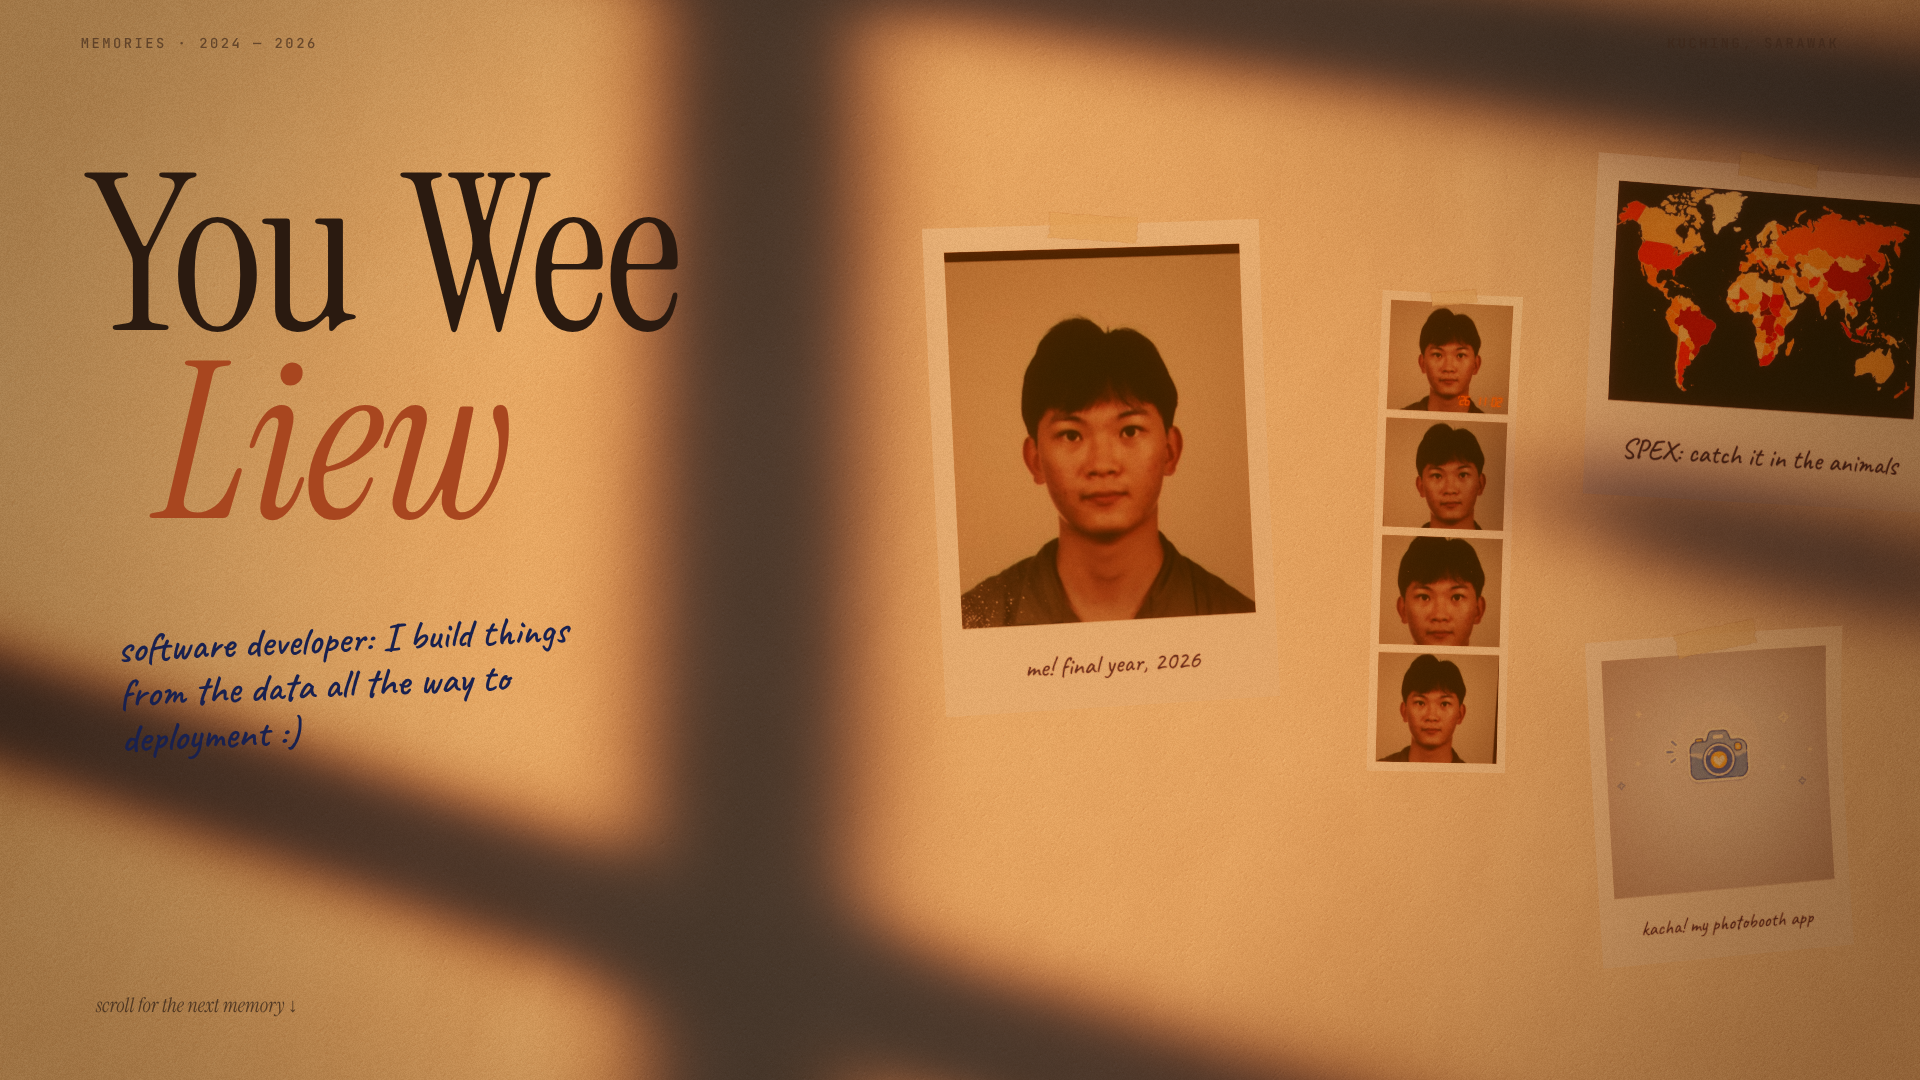
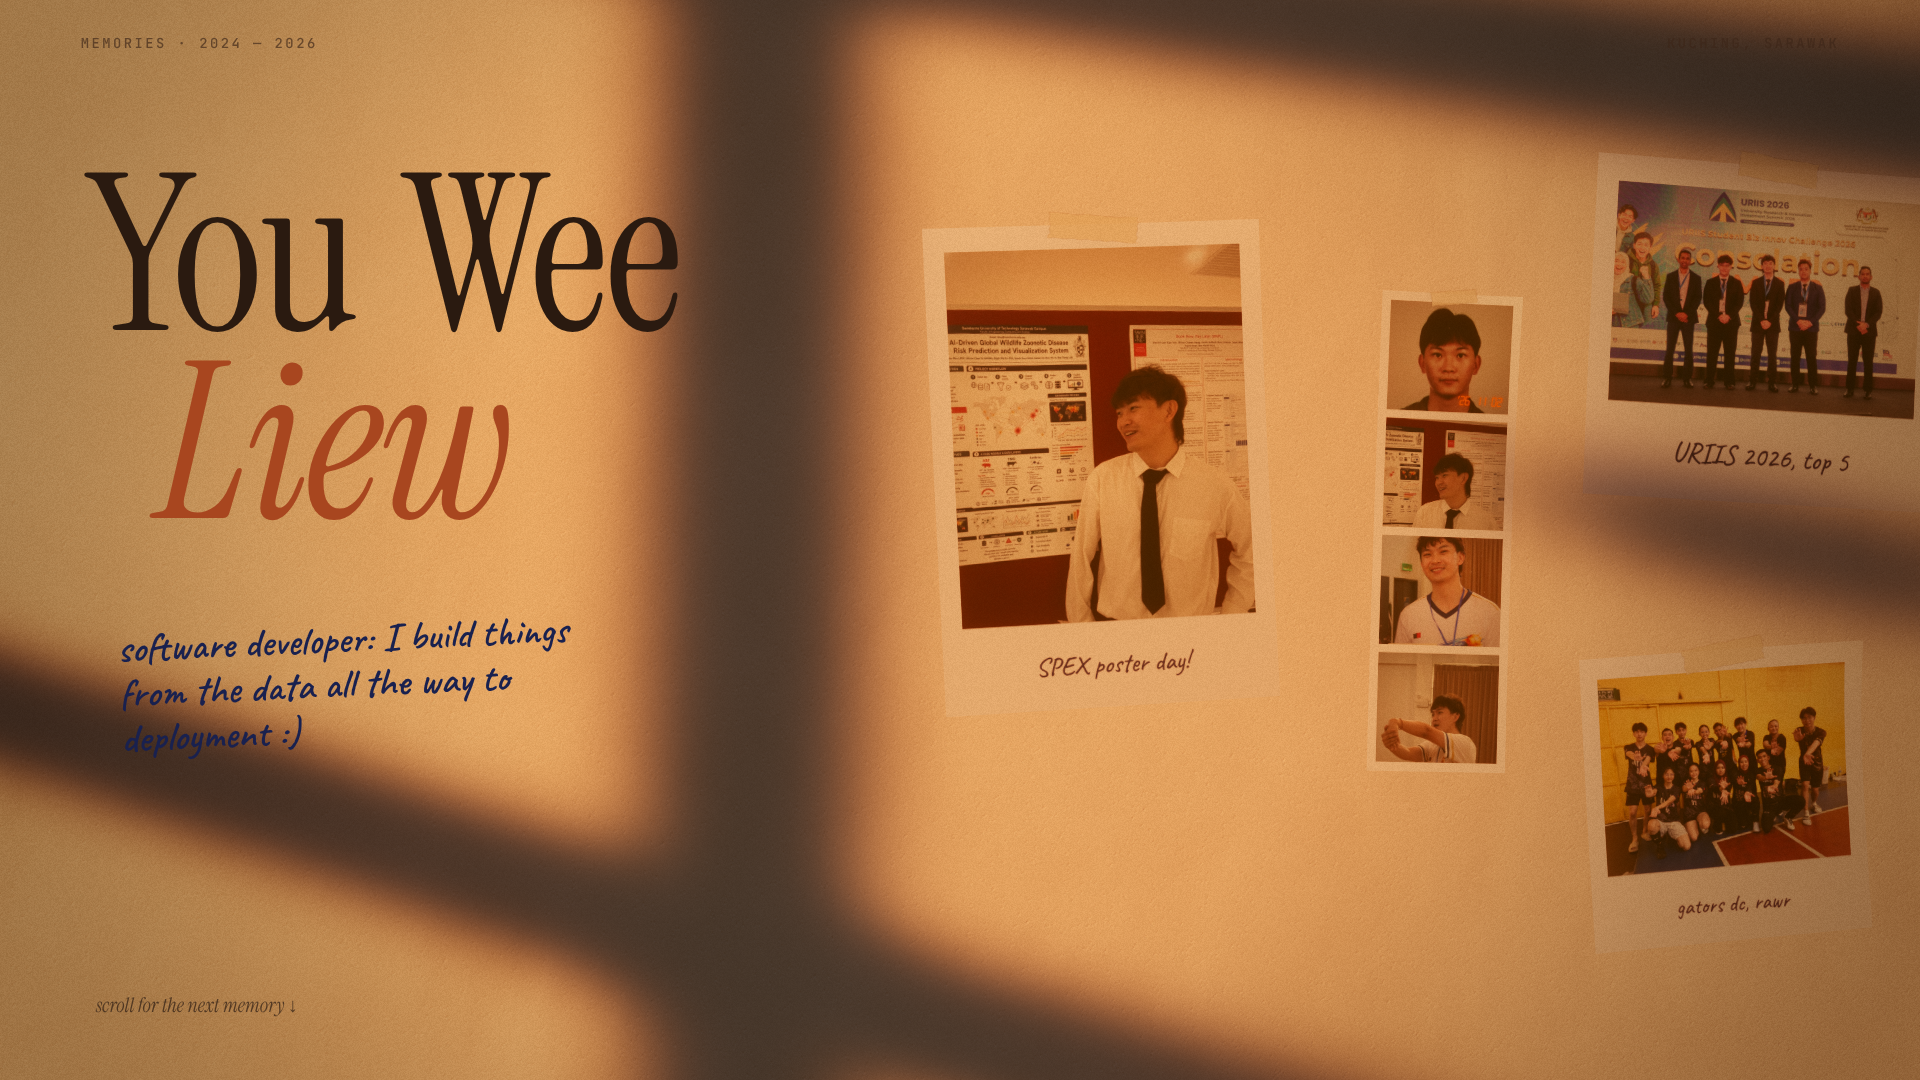
Put the user's own memories into the style frames
Adds eight photos (resized, metadata stripped, school-hall shots cropped
to keep students out) and lets a photobooth strip take a different image
per frame. Cropping now clamps so a photo always covers its frame.

Claude-Session: https://claude.ai/code/session_016nJieuj3hz1PRLzcMUTyK7

diff --git a/workbench/style-frames/frames.js b/workbench/style-frames/frames.js
@@ -37,7 +37,23 @@ const images = Object.fromEntries(await Promise.all(Object.entries({
   kacha: 'projects/kacha-camera.jpg',
   herbarium: 'projects/herbarium.jpg',
   aws: 'projects/aws-architecture.jpg',
+  poster: 'memories/spex-poster.jpg',
+  certificate: 'memories/certificate.jpg',
+  coaching: 'memories/coaching.jpg',
+  gators: 'memories/gators.jpg',
+  stage: 'memories/uriis-stage.jpg',
+  game: 'memories/game.jpg',
+  team: 'memories/outreach-team.jpg',
 }).map(async ([key, file]) => [key, await loadImage(IMG + file)])));
+
+// Four sittings in one strip: the ID photo, SPEX poster day, the outreach
+// certificate, and coaching the warm-up.
+const memoryStrip = () => [
+  { image: images.portrait, zoom: 1.0, focusX: 0.5, focusY: 0.44 },
+  { image: images.poster, zoom: 1.75, focusX: 0.75, focusY: 0.4 },
+  { image: images.certificate, zoom: 1.0, focusX: 0.5, focusY: 0.3 },
+  { image: images.coaching, zoom: 1.0, focusX: 0.5, focusY: 0.31 },
+];
 
 const hdr = (r, g, b, scale) => new THREE.Color(r, g, b).multiplyScalar(scale);
 
@@ -123,10 +139,10 @@ const darkroom = () => {
   const wire = new THREE.CatmullRomCurve3(Array.from({ length: 21 }, (_, k) => along(k / 20)));
   back.add(new THREE.Mesh(new THREE.TubeGeometry(wire, 120, 0.014, 6), new THREE.MeshStandardMaterial({ color: 0x9d968b, roughness: 0.5 })));
   [
-    { image: images.herbarium, t: 0.42, w: 1.9, ratio: 0.6, rot: -0.04 },
-    { image: images.spex, t: 0.6, w: 1.7, ratio: 0.72, rot: 0.035 },
-    { image: images.kacha, t: 0.76, w: 1.35, ratio: 1.0, rot: 0.05 },
-    { image: images.aws, t: 0.9, w: 1.6, ratio: 0.82, rot: -0.03 },
+    { image: images.gators, t: 0.42, w: 1.9, ratio: 0.72, rot: -0.04 },
+    { image: images.stage, t: 0.6, w: 1.8, ratio: 0.64, rot: 0.035 },
+    { image: images.game, t: 0.76, w: 1.6, ratio: 0.7, rot: 0.05 },
+    { image: images.team, t: 0.9, w: 1.5, ratio: 0.9, rot: -0.03 },
   ].forEach((print, k) => {
     const mesh = printMesh(instantPhoto(print.image, { width: 640, ratio: print.ratio, look: 'mono', seed: 30 + k }), print.w, {
       gloss: 0.7, roughness: 0.45, curl: 0.3, cup: 0.12,
@@ -158,7 +174,7 @@ const darkroom = () => {
     { position: [-8, -2, 4], size: [3, 6], color: hdr(1, 0.12, 0.05, 2.2) },
   ]);
   front.environmentIntensity = 0.55;
-  const face = photoStrip(images.portrait, {
+  const face = photoStrip(memoryStrip(), {
     look: 'mono', develop: 0.5, stamp: "'26 11 02", label: 'YOU WEE LIEW  ·  KUCHING  ·  02 11 26',
   });
   const strip = printMesh(face, 1.46, { gloss: 1, roughness: 0.32, curl: 0.16, segments: [8, 64] });
@@ -276,15 +292,15 @@ const goldenHour = () => {
 
   const ink = '#1f2c66';
   const cards = [
-    { image: images.portrait, w: 2.3, x: 0.35, y: 0.5, rot: 0.05, ratio: 1.24, caption: 'me! final year, 2026', pose: { zoom: 1.05, focusY: 0.43 } },
+    { image: images.poster, w: 2.3, x: 0.35, y: 0.5, rot: 0.05, ratio: 1.24, caption: 'SPEX poster day!', pose: { zoom: 1.35, focusX: 0.66, focusY: 0.45 } },
     { strip: true, w: 1.0, x: 2.75, y: 0.05, rot: -0.035 },
-    { image: images.spex, w: 2.65, x: 5.15, y: 1.45, rot: -0.05, ratio: 0.66, caption: 'SPEX: catch it in the animals' },
-    { image: images.kacha, w: 1.9, x: 4.8, y: -1.8, rot: 0.06, ratio: 1.0, caption: 'kacha! my photobooth app' },
-    { image: images.herbarium, w: 2.5, x: 7.75, y: -0.3, rot: 0.035, ratio: 0.6, caption: 'herbarium project' },
+    { image: images.stage, w: 2.65, x: 5.15, y: 1.45, rot: -0.05, ratio: 0.66, caption: 'URIIS 2026, top 5' },
+    { image: images.gators, w: 2.1, x: 4.85, y: -1.8, rot: 0.06, ratio: 0.75, caption: 'gators dc, rawr' },
+    { image: images.game, w: 2.5, x: 7.75, y: -0.3, rot: 0.035, ratio: 0.66, caption: 'game day' },
   ];
   cards.forEach((card, k) => {
     const face = card.strip
-      ? photoStrip(images.portrait, { look: 'color', stamp: "'26 11 02", seed: 8 })
+      ? photoStrip(memoryStrip(), { look: 'color', stamp: "'26 11 02", seed: 8 })
       : instantPhoto(card.image, { width: 860, ratio: card.ratio, caption: card.caption, font: '600 66px Caveat', ink, pose: card.pose, seed: 40 + k });
     const mesh = printMesh(face, card.w, { gloss: 0.35, roughness: 0.55, curl: 0.12, lift: k % 2 ? 0.5 : 0.2 });
     pin(wall, mesh, { x: card.x, y: card.y, z: 0.1, rotate: card.rot });
@@ -365,9 +381,11 @@ const cutAndPaste = () => {
   const blue = { color: '#0078bf', channel: (r, g, b) => 1 - (0.62 * r + 0.3 * g + 0.08 * b), angle: 1.31, offset: [3, 2] };
   const flat = { physical: false, roughness: 0.92, alphaTest: 0.5 };
 
-  const portrait = printMesh(cutOut(risograph(images.portrait, 760, 940, { cell: 7, inks: [pink, blue], focusY: 0.45 }), 760, 940), 2.55, { ...flat, lift: 0.5 });
+  const portrait = printMesh(cutOut(risograph(images.poster, 760, 940, { cell: 7, inks: [pink, blue], zoom: 1.3, focusX: 0.7, focusY: 0.46 }), 760, 940), 2.55, { ...flat, lift: 0.5 });
   pin(page, portrait, { x: 1.75, y: 0.35, z: 0.06, rotate: -0.075 });
-  const strip = printMesh(photoStrip(images.portrait, { look: 'riso', label: 'PHOTOBOOTH · 4 POSES', labelFont: '700 26px "JetBrains Mono"' }), 1.05, { ...flat, curl: 0.15 });
+  const stripFrames = memoryStrip();
+  stripFrames[1] = { image: images.game, zoom: 1.2, focusX: 0.5, focusY: 0.62 };
+  const strip = printMesh(photoStrip(stripFrames, { look: 'riso', label: 'PHOTOBOOTH · 4 POSES', labelFont: '700 26px "JetBrains Mono"' }), 1.05, { ...flat, curl: 0.15 });
   pin(page, strip, { x: 4.35, y: -0.35, z: 0.1, rotate: 0.11 });
   const ticket = printMesh(ticketStub({
     lines: [
@@ -377,7 +395,7 @@ const cutAndPaste = () => {
     ],
   }), 3.1, { ...flat, alphaTest: 0.3 });
   pin(page, ticket, { x: 1.35, y: -2.55, z: 0.05, rotate: 0.04 });
-  const spex = printMesh(cutOut(risograph(images.spex, 900, 640, { cell: 6, inks: [pink, blue] }), 900, 640, { seed: 9 }), 2.15, { ...flat, lift: 0.4 });
+  const spex = printMesh(cutOut(risograph(images.gators, 900, 640, { cell: 6, inks: [pink, blue] }), 900, 640, { seed: 9 }), 2.15, { ...flat, lift: 0.4 });
   pin(page, spex, { x: 5.25, y: 2.25, z: 0.04, rotate: -0.07 });
 
   [

diff --git a/site/js/lib/prints.js b/site/js/lib/prints.js
@@ -32,23 +32,26 @@ export const POSES = [
   { zoom: 1.05, focusX: 0.54, focusY: 0.45, rotate: 0.04 },
 ];
 
-// A four-frame photobooth strip. `look` is mono, color or riso.
-export const photoStrip = (image, {
+// A photobooth strip. `source` is one image (shot four times with POSES) or a
+// list of frames, each { image, zoom, focusX, focusY, rotate }.
+// `look` is mono, color or riso.
+export const photoStrip = (source, {
   look = 'mono', width = 640, poses = POSES, develop = 1, stamp = null, label = '', labelFont = '500 17px "JetBrains Mono"', seed = 4,
   risoInk = '#0078bf',
 } = {}) => {
+  const frames = Array.isArray(source) ? source : poses.map((pose) => ({ image: source, ...pose }));
   const margin = Math.round(width * 0.0625);
   const gap = Math.round(width * 0.053);
   const fw = width - margin * 2;
   const fh = Math.round(fw * 0.86);
   const footer = label ? Math.round(width * 0.17) : margin;
-  const height = margin + poses.length * fh + (poses.length - 1) * gap + footer;
+  const height = margin + frames.length * fh + (frames.length - 1) * gap + footer;
   const canvas = makeCanvas(width, height);
   const ctx = canvas.getContext('2d', { willReadFrequently: true });
   ctx.fillStyle = PAPER[look];
   ctx.fillRect(0, 0, width, height);
 
-  poses.forEach((pose, index) => {
+  frames.forEach(({ image, ...pose }, index) => {
     const x = margin;
     const y = margin + index * (fh + gap);
     if (look === 'riso') {
@@ -70,7 +73,7 @@ export const photoStrip = (image, {
     frameVignette(ctx, x, y, fw, fh, look === 'mono' ? 0.42 : 0.25);
     grain(ctx, x, y, fw, fh, look === 'mono' ? 26 : 12, seed + index);
     dust(ctx, x, y, fw, fh, { count: 18, seed: seed * 7 + index });
-    const isLast = index === poses.length - 1;
+    const isLast = index === frames.length - 1;
     if (isLast && develop < 1) developing(ctx, x, y, fw, fh, develop, seed + 9);
     if (stamp && index === 0) dateStamp(ctx, stamp, x + fw - fh * 0.48, y + fh - fh * 0.15, fh * 0.075);
   });

diff --git a/site/js/lib/paper.js b/site/js/lib/paper.js
@@ -58,18 +58,23 @@ export const fbm = (x, y, { octaves = 5, seed = 0, lacunarity = 2, gain = 0.5 } 
   return sum / norm;
 };
 
-// object-fit: cover, with zoom, focus point and a small rotation.
+const clamp = (value, min, max) => Math.min(max, Math.max(min, value));
+
+// object-fit: cover, with zoom, a focus point that lands on the frame centre,
+// and a small rotation. The offset is clamped so the image always covers.
 export const drawCover = (ctx, image, x, y, w, h, { zoom = 1, focusX = 0.5, focusY = 0.5, rotate = 0 } = {}) => {
-  const scale = Math.max(w / image.width, h / image.height) * zoom;
+  const scale = Math.max(w / image.width, h / image.height) * Math.max(1, zoom) * (1 + Math.abs(rotate) * 0.6);
   const dw = image.width * scale;
   const dh = image.height * scale;
+  const left = clamp(-dw * focusX, w / 2 - dw, -w / 2);
+  const top = clamp(-dh * focusY, h / 2 - dh, -h / 2);
   ctx.save();
   ctx.beginPath();
   ctx.rect(x, y, w, h);
   ctx.clip();
   ctx.translate(x + w / 2, y + h / 2);
   ctx.rotate(rotate);
-  ctx.drawImage(image, -dw * focusX, -dh * focusY, dw, dh);
+  ctx.drawImage(image, left, top, dw, dh);
   ctx.restore();
 };
 

diff --git a/workbench/brief.md b/workbench/brief.md
@@ -33,6 +33,21 @@ Read this first if you are picking the project up from disk.
 | Little Lemon | Uwe1209/Little-Lemon-project | Meta Front-End course, HTML and CSS restaurant site |
 | Dodgeball club | resume | Programme Coordinator, Swinburne Sarawak Dodgeball Club ECA at Borneo International School |
 
+## Memories (user's photos, 2026-11-02)
+
+Stored in `site/assets/img/memories/`, resized, metadata stripped. The two school-hall photos are cropped to You Wee so the school students behind him stay off the public site.
+
+| File | What it shows (only what the photo itself establishes) |
+|---|---|
+| `spex-poster.jpg` | You Wee beside the SPEX poster: "AI-Driven Global Wildlife Zoonotic Disease Risk Prediction and Visualization System", Swinburne Sarawak, team of five plus supervisor |
+| `certificate.jpg` | You Wee with a Certificate of Appreciation: facilitator, SSDC Dodgeball Outreach Programme, 11 April 2026, Tunku Putra-HELP School |
+| `coaching.jpg` | You Wee leading a warm-up at an outreach session |
+| `uriis-stage.jpg` | URIIS 2026 (University Research & Innovation Investment Summit, World Trade Centre Kuala Lumpur, 21-23 Sep 2026), Student Biz Innov Challenge, consolation prize line-up |
+| `uriis-pitch.jpg` | A pitch at URIIS 2026. Don't caption who is speaking; the user hasn't said |
+| `gators.jpg` | Gators DC dodgeball team photo |
+| `game.jpg` | Gators DC match, mid-dive |
+| `outreach-team.jpg` | Outreach dodgeball facilitators team photo |
+
 ## Process (from the user's brief)
 
 Raw three.js, vendored, importmap, no build. One smooth scroll value drives DOM and WebGL. Chapters render to their own HDR targets; one composite pass. Builder and critic are separate agents; the critic captures from a frozen snapshot and names the single biggest gap. Progress lives in `workbench/`.
